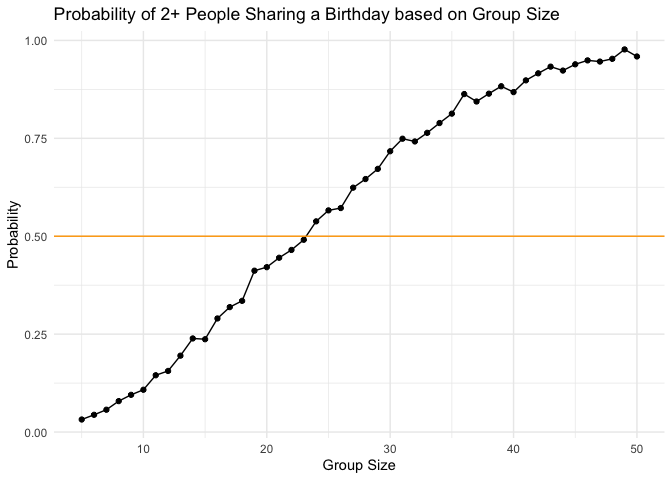
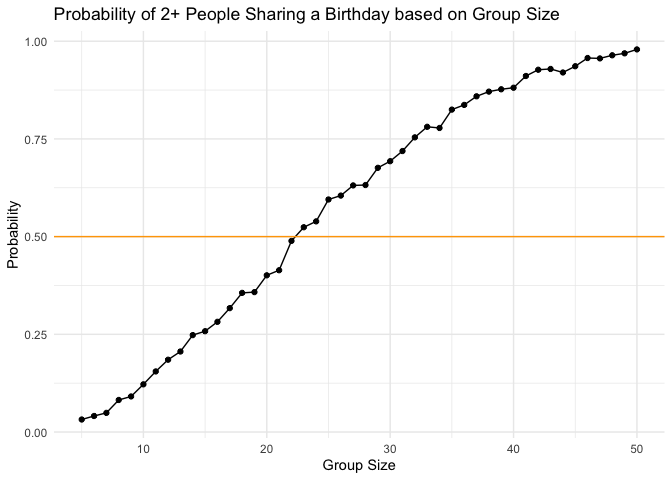
Added graph for problem 3

diff --git a/p8105_hw5_jg5038.md b/p8105_hw5_jg5038.md
@@ -67,11 +67,10 @@ bday_sim_results |>
 
 <img src="p8105_hw5_jg5038_files/figure-gfm/unnamed-chunk-4-1.png" width="90%" />
 
-### Problem 2
+The probability of 2 people sharing a birthday is hits 50% when the
+group size is at least 23.
 
-Problem 2 = if you’re study is underpowered, you’re going to
-overestimate effect size. If only see significant results = not getting
-idea of what real value is
+### Problem 2
 
 ``` r
 #set model params
@@ -143,14 +142,11 @@ norm_sim_results |>
 
 <img src="p8105_hw5_jg5038_files/figure-gfm/unnamed-chunk-7-1.png" width="90%" />
 
-Comment:
-
-Make a plot showing the average estimate of 𝜇̂ on the y axis and the true
-value of 𝜇 on the x axis. Make a second plot (or overlay on the first)
-the average estimate of 𝜇̂ only in samples for which the null was
-rejected on the y axis and the true value of 𝜇 on the x axis. Is the
-sample average of 𝜇̂ across tests for which the null is rejected
-approximately equal to the true value of 𝜇 ? Why or why not?
+We can see there is a positive correlation between effect size and
+power. When the effect size is small, the power is low meaning the
+frequency of null hypothesis getting rejected goes down. As the effect
+size goes up the power approaches 1, meaning the null hypothesis is more
+frequently getting rejected.
 
 ``` r
 avg_estimates = norm_sim_results |> 
@@ -180,6 +176,10 @@ rbind(all_sample_avg_estimates, null_reject_avg_estimates) |>
 ```
 
 <img src="p8105_hw5_jg5038_files/figure-gfm/unnamed-chunk-8-1.png" width="90%" />
+
+At larger effect sizes we can see that $\hat{\mu}$ is approximately
+equal to the true ${\mu}$. When the effect size is low, the power is low
+and we frequently fail to reject the null hypothesis.
 
 ### Problem 3
 
@@ -257,3 +257,127 @@ homicide_df |>
 | Tampa, FL          |                 95 |
 | Tulsa, OK          |                193 |
 | Washington, DC     |                589 |
+
+Prop test for Baltimore:
+
+``` r
+prop_test_baltimore = 
+  homicide_df |> 
+  filter(city_state == "Baltimore, MD") |> 
+  summarize(
+    n_unsolved = sum(disposition %in% c("Closed without arrest", "Open/No arrest")),
+    n_total = n()
+  ) |> 
+  with(prop.test(x = n_unsolved, n = n_total))
+
+prop_test_baltimore |> 
+  broom::tidy() |> 
+  select(estimate, conf.low, conf.high) |> 
+  knitr::kable()
+```
+
+|  estimate |  conf.low | conf.high |
+|----------:|----------:|----------:|
+| 0.6455607 | 0.6275625 | 0.6631599 |
+
+Prop test for all cities:
+
+``` r
+prop_test_all_cities = 
+  homicide_df |> 
+  group_by(city_state) |> 
+  summarize(
+    n_unsolved = sum(disposition %in% c("Closed without arrest", "Open/No arrest")),
+    n_total = n()
+  ) |> 
+  mutate(
+    prop_test = map2(n_unsolved, n_total, prop.test),
+    results = map(prop_test, broom::tidy)
+  ) |> 
+  unnest(results) |> 
+  select(city_state, estimate, conf.low, conf.high)
+```
+
+    ## Warning: There was 1 warning in `mutate()`.
+    ## ℹ In argument: `prop_test = map2(n_unsolved, n_total, prop.test)`.
+    ## Caused by warning in `.f()`:
+    ## ! Chi-squared approximation may be incorrect
+
+``` r
+prop_test_all_cities |> 
+  knitr::kable(digits = 3)
+```
+
+| city_state         | estimate | conf.low | conf.high |
+|:-------------------|---------:|---------:|----------:|
+| Albuquerque, NM    |    0.386 |    0.337 |     0.438 |
+| Atlanta, GA        |    0.383 |    0.353 |     0.415 |
+| Baltimore, MD      |    0.646 |    0.628 |     0.663 |
+| Baton Rouge, LA    |    0.462 |    0.414 |     0.511 |
+| Birmingham, AL     |    0.434 |    0.399 |     0.469 |
+| Boston, MA         |    0.505 |    0.465 |     0.545 |
+| Buffalo, NY        |    0.612 |    0.569 |     0.654 |
+| Charlotte, NC      |    0.300 |    0.266 |     0.336 |
+| Chicago, IL        |    0.736 |    0.724 |     0.747 |
+| Cincinnati, OH     |    0.445 |    0.408 |     0.483 |
+| Columbus, OH       |    0.530 |    0.500 |     0.560 |
+| Dallas, TX         |    0.481 |    0.456 |     0.506 |
+| Denver, CO         |    0.542 |    0.485 |     0.598 |
+| Detroit, MI        |    0.588 |    0.569 |     0.608 |
+| Durham, NC         |    0.366 |    0.310 |     0.426 |
+| Fort Worth, TX     |    0.464 |    0.422 |     0.507 |
+| Fresno, CA         |    0.347 |    0.305 |     0.391 |
+| Houston, TX        |    0.507 |    0.489 |     0.526 |
+| Indianapolis, IN   |    0.449 |    0.422 |     0.477 |
+| Jacksonville, FL   |    0.511 |    0.482 |     0.540 |
+| Kansas City, MO    |    0.408 |    0.380 |     0.437 |
+| Las Vegas, NV      |    0.414 |    0.388 |     0.441 |
+| Long Beach, CA     |    0.413 |    0.363 |     0.464 |
+| Los Angeles, CA    |    0.490 |    0.469 |     0.511 |
+| Louisville, KY     |    0.453 |    0.412 |     0.495 |
+| Memphis, TN        |    0.319 |    0.296 |     0.343 |
+| Miami, FL          |    0.605 |    0.569 |     0.640 |
+| Milwaukee, wI      |    0.361 |    0.333 |     0.391 |
+| Minneapolis, MN    |    0.511 |    0.459 |     0.563 |
+| Nashville, TN      |    0.362 |    0.329 |     0.398 |
+| New Orleans, LA    |    0.649 |    0.623 |     0.673 |
+| New York, NY       |    0.388 |    0.349 |     0.427 |
+| Oakland, CA        |    0.536 |    0.504 |     0.569 |
+| Oklahoma City, OK  |    0.485 |    0.447 |     0.524 |
+| Omaha, NE          |    0.413 |    0.365 |     0.463 |
+| Philadelphia, PA   |    0.448 |    0.430 |     0.466 |
+| Phoenix, AZ        |    0.551 |    0.518 |     0.584 |
+| Pittsburgh, PA     |    0.534 |    0.494 |     0.573 |
+| Richmond, VA       |    0.263 |    0.223 |     0.308 |
+| Sacramento, CA     |    0.370 |    0.321 |     0.421 |
+| San Antonio, TX    |    0.429 |    0.395 |     0.463 |
+| San Bernardino, CA |    0.618 |    0.558 |     0.675 |
+| San Diego, CA      |    0.380 |    0.335 |     0.426 |
+| San Francisco, CA  |    0.507 |    0.468 |     0.545 |
+| Savannah, GA       |    0.467 |    0.404 |     0.532 |
+| St. Louis, MO      |    0.540 |    0.515 |     0.564 |
+| Stockton, CA       |    0.599 |    0.552 |     0.645 |
+| Tampa, FL          |    0.457 |    0.388 |     0.527 |
+| Tulsa, AL          |    0.000 |    0.000 |     0.945 |
+| Tulsa, OK          |    0.331 |    0.293 |     0.371 |
+| Washington, DC     |    0.438 |    0.411 |     0.465 |
+
+Graph the results:
+
+``` r
+prop_test_all_cities |> 
+  mutate(
+    city_state = fct_reorder(city_state, estimate)
+    ) |> 
+  ggplot(aes(y = city_state, x = estimate)) + 
+  geom_point() + 
+  geom_errorbar(aes(xmin = conf.low, xmax = conf.high)) +
+  xlim(0, 1) + 
+  labs(
+    title = "Proportion of Unsolved Homicides by City",
+    y = "City",
+    x = "Proportion Estimate (CI)"
+  )
+```
+
+<img src="p8105_hw5_jg5038_files/figure-gfm/unnamed-chunk-13-1.png" width="90%" />
